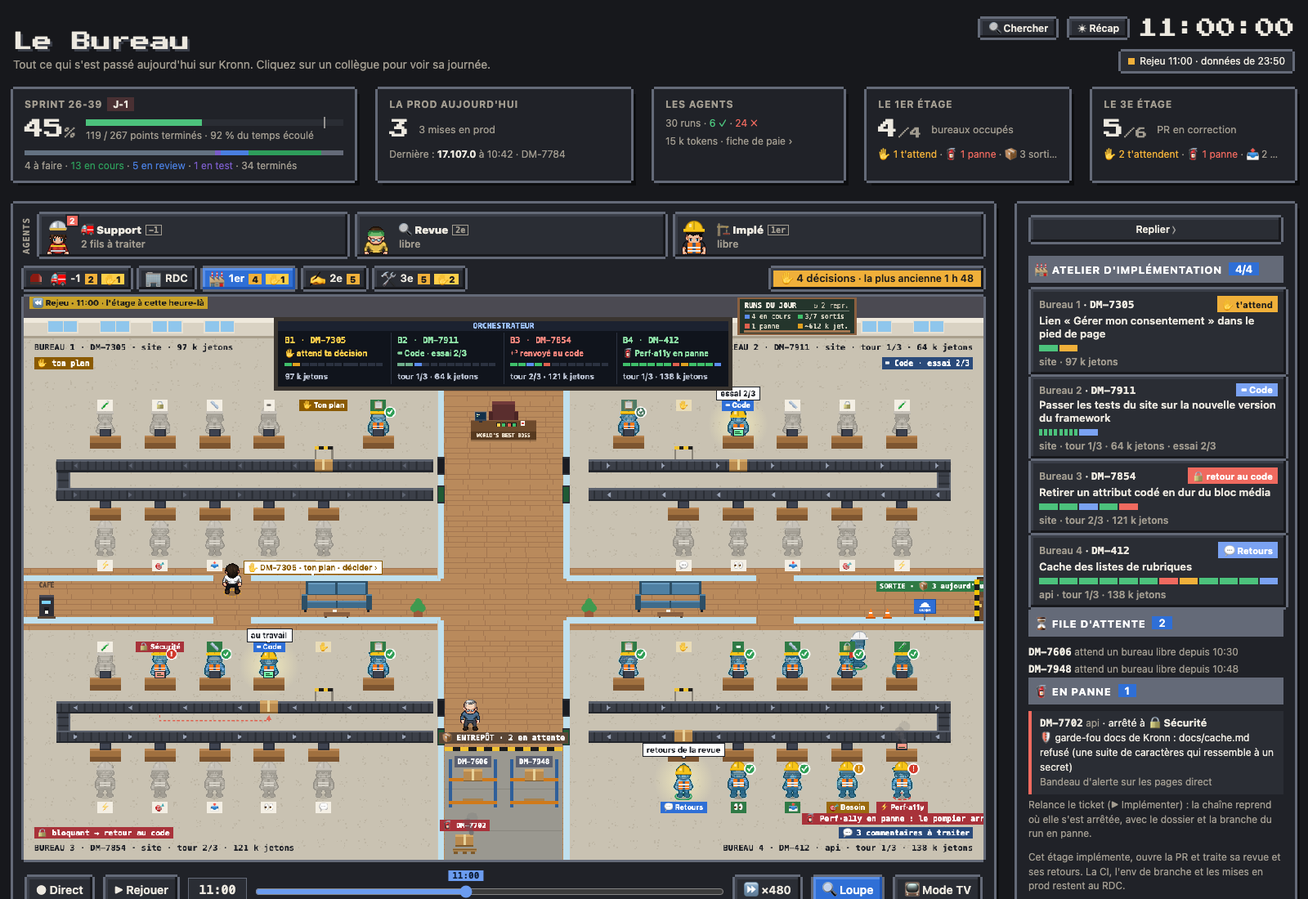
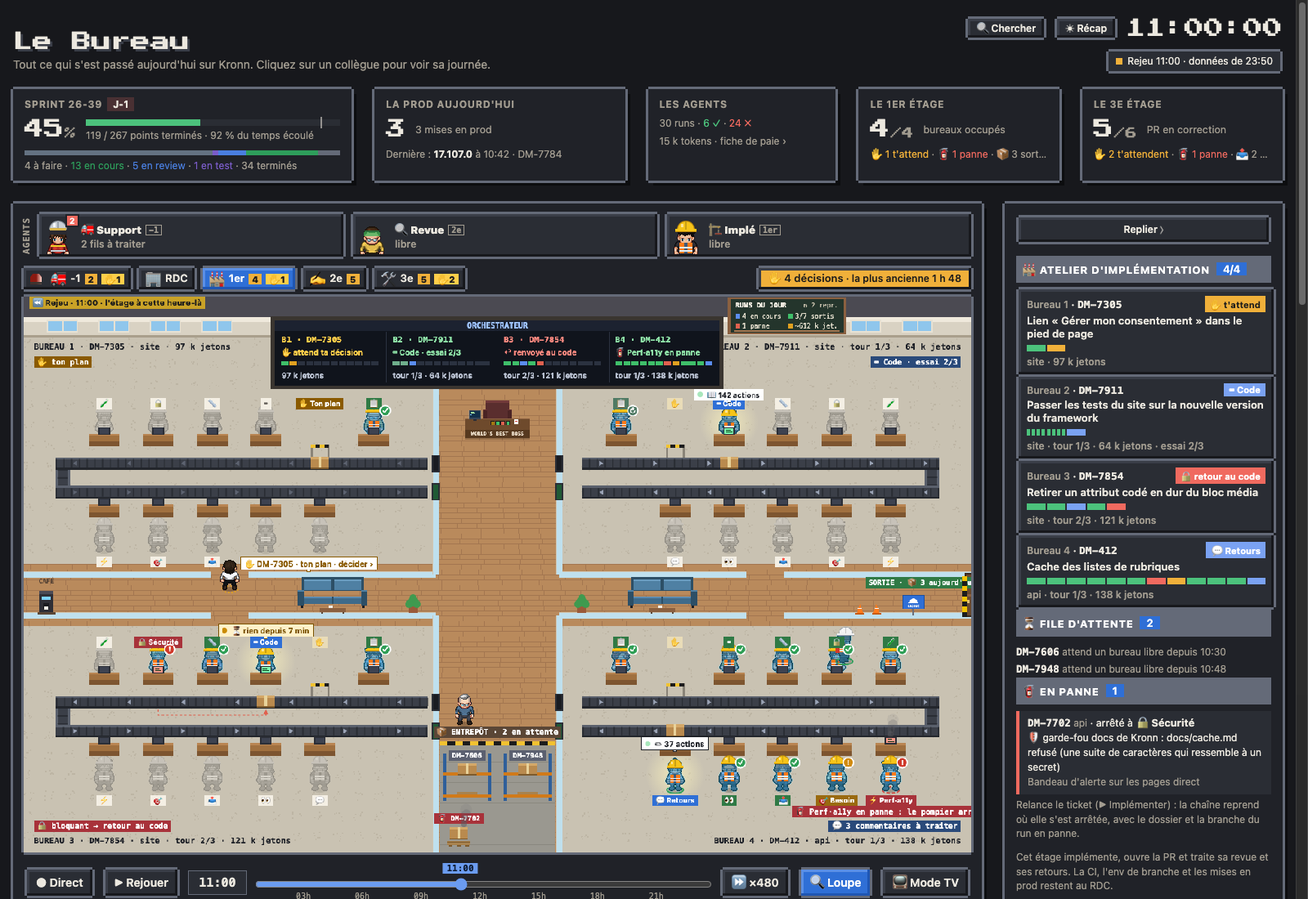
feat(atelier): on voit qu'un bureau travaille, et l'orchestrateur vient au bureau
Le relevé lit last_activity de Kronn (dernière action, nombre d'actions, heure) dans l'étape qui tourne, en
descendant dans le sous-run, et dit l'étape du parent (etape). La bulle de l'agent au travail montre l'action et le
compteur, avec une pastille vivante, et passe au jaune après 5 min sans action. Pendant orchestrateur_plan et
orchestrateur, aucun poste ne travaille : l'orchestrateur vient à la barrière, et l'étiquette, le tableau et la
fiche le disent. Les bulles des bureaux du haut passent juste sous le grand tableau au lieu de disparaître dessous.

diff --git a/page/src/68-atelier.js b/page/src/68-atelier.js
@@ -62,12 +62,12 @@ function atelierDemo(){
     {run:'demo-a1',ticket:'DM-7305',title:'Lien « Gérer mon consentement » dans le pied de page',repo:'dm/site',poste:'gate',gate:'gate_plan',
      states:{...ok(1),gate:'wait'},tour:null,tok:97e3,since:at(9.2),note:'✋ ton plan'},
     {run:'demo-a2',ticket:'DM-7911',title:'Passer les tests du site sur la nouvelle version du framework',repo:'dm/site',poste:'code',
-     states:{cadrage:'rep',gate:'rep',code:'run'},tour:'1/3',tok:64e3,since:at(9.6),lot:'essai 2/3',
+     states:{cadrage:'rep',gate:'rep',code:'run'},tour:'1/3',tok:64e3,since:at(9.6),lot:'essai 2/3',etape:'code',act:{cat:'Read',n:142,at:at(10.998)},
      reprise:{poste:'code',de:'demo-a2-0',panne:'code',cause:'délai dépassé, arrêté par Kronn (2 h 10 pour 2 h 00 permises)',cause_type:'delai'}},
     {run:'demo-a3',ticket:'DM-7854',title:'Retirer un attribut codé en dur du bloc média',repo:'dm/site',poste:'code',back:true,
-     states:{...ok(4),securite:'bloq',code:'run'},tour:'2/3',tok:121e3,since:at(8.4),note:'🔒 bloquant → retour au code'},
+     states:{...ok(4),securite:'bloq',code:'run'},tour:'2/3',tok:121e3,since:at(8.4),note:'🔒 bloquant → retour au code',etape:'code',act:{cat:'Execute',n:96,at:at(10.88)}},
     {run:'demo-a4',ticket:'DM-412',title:'Cache des listes de rubriques',repo:'dm/api',poste:'retours',
-     states:{...ok(6),perf:'err',besoin:'avis',doc:'ok',pr:'ok',revue_pr:'ok',retours:'run'},tour:'1/3',tok:138e3,since:at(7.9),note:'💬 3 commentaires à traiter'}],
+     states:{...ok(6),perf:'err',besoin:'avis',doc:'ok',pr:'ok',revue_pr:'ok',retours:'run'},tour:'1/3',tok:138e3,since:at(7.9),note:'💬 3 commentaires à traiter',etape:'livraison',act:{cat:'Edit',n:37,at:at(10.994)}}],
     queue:[{run:'demo-q1',ticket:'DM-7606',since:at(10.5)},{run:'demo-q2',ticket:'DM-7948',since:at(10.8)}],
     livres:3,jour:{tickets:7,cours:4,sortis:3,pannes:1,reprises:2,tok:612e3},pannes:[{run:'demo-p1',ticket:'DM-7702',title:'Bandeau d\'alerte sur les pages direct',repo:'dm/api',poste:'securite',since:at(8.1),
       cause:'garde-fou docs de Kronn : docs/cache.md refusé (une suite de caractères qui ressemble à un secret)',cause_type:'garde_fou_docs',docs_ok:true}]};
@@ -85,6 +85,16 @@ function atelierRunIds(runs){
 const AT_STEP={prepare:'Préparation',orchestrateur_plan:'Plan de l\'orchestrateur',orchestrateur:'Orchestrateur',livraison:'PR',publication:'Publication',
   controles:'Contrôles',ticket:'Lecture du ticket',dossier:'Dossier',aiguillage:'Aiguillage',compris:'Ce que j\'ai compris',questions:'Questions',mode:'Mode'};
 const atStepName=k=>{const p=AT_POSTES.find(x=>x.k===k);return p?p.i+' '+p.n:AT_STEP[k]||k||'?';};
+// ce que fait l'agent au travail (act du relevé : last_activity de Kronn) ; en direct seulement : le relevé dit ce qu'il
+// fait maintenant, pas à l'heure du rejeu. Sans action depuis AT_STALE, la bulle passe au jaune.
+const AT_ACT={Read:['📖','lit un fichier'],Execute:['⌨','lance une commande'],Edit:['✏','écrit un fichier'],Write:['✏','écrit un fichier'],Search:['🔎','cherche']};
+const AT_STALE=5*60e3;
+function atAct(r){const a=r&&r.act, g=ATELIER&&ATELIER.generated_at;if(!a||!a.at||!g||Math.abs(T-Date.parse(g))>180e3)return null;
+  const age=Math.max(0,T-Date.parse(a.at)), [ico,txt]=AT_ACT[a.cat]||['⚙','travaille'];return {ico,txt,n:a.n||0,age,stale:age>AT_STALE};}
+const atActBubble=a=>a.stale?'⏳ rien depuis '+Math.floor(a.age/60e3)+' min':a.ico+' '+a.n+' action'+(a.n>1?'s':'');
+const atAgo=ms=>ms<60e3?'il y a '+Math.round(ms/1e3)+' s':'il y a '+Math.floor(ms/60e3)+' min';
+// l'orchestrateur, hors des postes : il vient dans le bureau pendant ses étapes (un bureau sans poste en cours paraissait vide)
+const AT_ORCH={orchestrateur_plan:'🧠 l\'orchestrateur écrit le plan',orchestrateur:'🧠 l\'orchestrateur décide : livrer ou renvoyer au code'};
 // les bureaux : en direct, ceux du relevé ; en rejeu, l'étage reconstruit à l'heure du curseur (atRoomsAt)
 const atLive=()=>typeof mode==='undefined'||mode==='live'||(typeof SCENE_DEMO!=='undefined'&&!!SCENE_DEMO); // une scène de la galerie joue sur sa copie
 const atRooms=()=>(atLive()?((ATELIER&&ATELIER.rooms)||[]):atRoomsAt(T)).slice(0,4);
@@ -358,9 +368,15 @@ function atCarton(x,y,label,col,dy){
 }
 function atBadge(x,y,ch,bgc,k){const s=k==null?1:k;if(s<=0)return;ctx.fillStyle=bgc;ctx.beginPath();ctx.arc(x,y,8*s,0,7);ctx.fill();ctx.strokeStyle='#fff';ctx.lineWidth=2;ctx.stroke();
   if(s>.6)atTxt(ch,x,y+4,'#fff','bold 11px system-ui,sans-serif');}
-function atBubble(x,y,s,col){ctx.font='bold 12px system-ui,sans-serif';const w=ctx.measureText(s).width+12;
-  R(ctx,x-w/2-1,y-19,w+2,21,col||'#1c1f26');R(ctx,x-w/2,y-18,w,19,'#ffffff');R(ctx,x-3,y+1,6,3,col||'#1c1f26');R(ctx,x-2,y+1,4,2,'#ffffff');
-  atTxt(s,x,y-4,col||'#1c1f26','bold 12px system-ui,sans-serif');}
+const AT_BOARD={x:12.2*AT_TS,y:1.15*AT_TS,w:21.6*AT_TS,h:3.15*AT_TS};
+// dot : pastille d'activité (live : action de moins de 30 s, clignote ; calm ; stale : jaune). Bureaux du haut : une bulle
+// sous le grand tableau descend juste sous son cadre, plus serrée, entre le tableau et les étiquettes des postes
+function atBubble(x,y,s,col,dot){const B=AT_BOARD, by1=B.y+B.h+6, tight=y-19<by1&&x>B.x-90&&x<B.x+B.w+90, h=tight?17:19, f=tight?'bold 11px system-ui,sans-serif':'bold 12px system-ui,sans-serif';
+  if(tight)y=by1+h;
+  ctx.font=f;const d=dot?14:0, w=ctx.measureText(s).width+12+d, st=dot==='stale', ink=st?'#7a5200':col||'#1c1f26', bg=st?'#fff1c9':'#ffffff';
+  R(ctx,x-w/2-1,y-h-1,w+2,h+2,ink);R(ctx,x-w/2,y-h,w,h,bg);R(ctx,x-3,y+1,6,3,ink);R(ctx,x-2,y+1,4,2,bg);
+  if(dot){const on=dot!=='live'||REDUCED_MOTION||Math.floor(performance.now()/500)%2===0;ctx.fillStyle=st?'#c98a00':on?'#2fbf5a':'#a8e6bb';ctx.beginPath();ctx.arc(x-w/2+9,y-h/2,4,0,7);ctx.fill();}
+  atTxt(s,x+d/2,y-h/2+5,ink,f);}
 function atDesk(x,y,on,col){R(ctx,x-24,y,48,12,'#a0703f');R(ctx,x-24,y,48,3,'#b98552');R(ctx,x-24,y+12,48,8,'#7d5530');
   R(ctx,x-9,y-10,18,12,'#2b2e36');R(ctx,x-7,y-8,14,8,on?(col||'#7dffb0'):'#3d4250');if(on){R(ctx,x-5,y-6,7,1,'#0b3a1a');R(ctx,x-5,y-3,10,1,'#0b3a1a');}}
 function atCoffee(x,y){R(ctx,x-11,y-32,22,32,'#2f2f36');R(ctx,x-11,y-32,22,4,'#4a4a55');R(ctx,x-7,y-24,14,6,'#7dd3ff');R(ctx,x-4,y-13,8,8,'#1a1a1f');R(ctx,x-3,y-8,6,5,'#f2efe6');R(ctx,x-14,y,28,4,'#5a4636');}
@@ -431,7 +447,7 @@ const atHit=(kind,x,y,w,h,ref)=>AT_HITS.push({kind,x,y,w,h,...ref});
 function atRoom(r,i,now,dt){
   const g=AT_G[i], T=AT_TS, H=g.H, leave=AT_MEM.leaving[i], live=r&&!r.gate, al=g.L?'left':'right', hx=g.L?(g.x0+.5)*T:(g.x1-.5)*T;
   if(r){atTxt('BUREAU '+(i+1)+' · '+r.ticket+' · '+String(r.repo||'').split('/').pop()+(r.tour?' · tour '+r.tour:'')+' · '+Math.round((r.tok||0)/1e3)+' k jetons',hx,g.head,'#1c1f26','bold 13px ui-monospace,Menlo,monospace',al);
-    const nt=r.note||(r.lot?'⌨ Code · '+r.lot:'');
+    const nt=r.note||(r.lot?'⌨ Code · '+r.lot:'')||(!r.poste&&AT_ORCH[r.etape])||'';
     if(nt){ctx.font='bold 12px ui-monospace,Menlo,monospace';const w=ctx.measureText(nt).width+10;atPill(nt,g.L?hx+w/2:hx-w/2,g.noteY,r.gate?'#8a5a00':r.back?'#a8323a':'#2a4a7a');}}
   else atTxt('BUREAU '+(i+1)+' · '+(leave?leave.ticket+' · sorti':'libre'),hx,g.head,'#8a8478','bold 13px ui-monospace,Menlo,monospace',al);
   const x_=g.L?g.turnX:g.ex, w_=Math.abs(g.ex-g.turnX)+.7*T;
@@ -456,7 +472,8 @@ function atRoom(r,i,now,dt){
       const gl=ctx.createRadialGradient(sp.x,feet-24,4,sp.x,feet-24,46);gl.addColorStop(0,'rgba(255,246,190,.65)');gl.addColorStop(1,'rgba(255,246,190,0)');ctx.fillStyle=gl;ctx.fillRect(sp.x-48,feet-72,96,96);
       a._st={st:'work'};a.pose='type';people.push([a,()=>atDesk(sp.x,deskY,true),top]);
       const back=AT_MEM.backAt[r.run], sigh=p.k==='code'&&back&&now-back<8e3;
-      late.push(()=>atBubble(sp.x,feet-62,sigh?'encore ?':r.lot||(p.k==='retours'?'retours de la revue':'au travail')));
+      const act=r.poste===p.k&&atAct(r);
+      late.push(()=>atBubble(sp.x,feet-62,sigh?'encore ?':act?atActBubble(act):r.lot||(p.k==='retours'?'retours de la revue':'au travail'),null,!sigh&&act?act.stale?'stale':act.age<30e3?'live':'calm':null));
     }else if(s==='bloq'||s==='err'){
       a._st={st:'error'};a.pose=s==='bloq'&&AT_MEM.backAt[r.run]&&now-AT_MEM.backAt[r.run]<8e3?'hands':'stand';people.push([a,()=>atDesk(sp.x,deskY,true,'#ff9a8a'),top]);
       late.push(()=>atBadge(sp.x+18,feet-42,'!','#d0392b'));
@@ -469,6 +486,15 @@ function atRoom(r,i,now,dt){
     else if(s==='idle'){a._st={st:'idle'};a.pose='stand';sleepers.push([a,sp.x,feet,deskY,top]);}
     else {a._st={st:'idle'};a.pose='stand';ghosts.push([a,sp.x,deskY]);}
   });
+  if(r&&!r.gate&&!r.poste&&AT_ORCH[r.etape]){ // à côté de la barrière, du côté du Plan, son bloc-notes à la main
+    const sp=atSpot(g,'gate'), pl=atSpot(g,'cadrage'), top=sp.row===1, feet=top?g.feet1:g.feet2, x=sp.x+Math.sign(pl.x-sp.x||1)*30;
+    const o=atWorker(i*20+19,x,feet,'down',false,'Orchestrateur','securite');
+    if(o){o._st={st:'work'};o.pose='hands';
+      const gl=ctx.createRadialGradient(x,feet-24,4,x,feet-24,46);gl.addColorStop(0,'rgba(255,246,190,.65)');gl.addColorStop(1,'rgba(255,246,190,0)');ctx.fillStyle=gl;ctx.fillRect(x-48,feet-72,96,96);
+      people.push([o,()=>{},top]);
+      late.push(()=>{R(ctx,x+12,feet-34,14,18,'#8a6a3a');R(ctx,x+13,feet-32,12,15,'#fbfbf6');
+        const n=REDUCED_MOTION?3:1+Math.floor(now/700)%4;for(let k=0;k<n;k++)R(ctx,x+15,feet-29+k*3,8,1,'#5a5a5a');
+        const act=atAct(r);atBubble(x,feet-62,act?atActBubble(act):r.etape==='orchestrateur'?'je décide…':'ton plan…',null,act?act.stale?'stale':act.age<30e3?'live':'calm':null);});}}
   if(ghosts.length){const gg=atLayer();ghosts.forEach(([a])=>atDrawInto(gg,a,now));ctx.save();ctx.globalAlpha=.38;ctx.filter='grayscale(1)';ctx.drawImage(AT_OFF,0,0);ctx.restore();ghosts.forEach(([,x,y])=>atDesk(x,y,false));}
   people.forEach(([c,d,top])=>{if(top){drawChar(c,now);d();}else{d();drawChar(c,now);}});
   sleepers.forEach(([a,x,f,y,top])=>{if(top){drawChar(a,now);atDesk(x,y,false);}else{atDesk(x,y,false);drawChar(a,now);}});
@@ -504,7 +530,7 @@ function atExtinguisher(r,i,k,x,feet,now,dt,people){
 }
 // ---------- couloir central : grand tableau, boss, entrepôt ----------
 function atBoard(slots){
-  const T=AT_TS, bx=12.2*T, by=1.15*T, bw=21.6*T, bh=3.15*T, cw=bw/4;
+  const bx=AT_BOARD.x, by=AT_BOARD.y, bw=AT_BOARD.w, bh=AT_BOARD.h, cw=bw/4;
   R(ctx,bx-6,by-6,bw+12,bh+12,'#3a3530');R(ctx,bx,by,bw,bh,'#10141c');R(ctx,bx,by,bw,16,'#1c2230');
   atTxt('ORCHESTRATEUR',bx+bw/2,by+12,'#9fc4ff','bold 12px ui-monospace,Menlo,monospace');
   if(themeIs('noel'))for(let k=0;k<26;k++){ctx.fillStyle=['#ff4a4a','#ffd84a','#4aff8a','#4ac8ff'][(k+Math.floor(performance.now()/500))%4];ctx.beginPath();ctx.arc(bx+8+k*(bw-16)/25,by-4,3,0,7);ctx.fill();}
@@ -516,7 +542,7 @@ function atBoard(slots){
     // le titre du ticket est dans le panneau de droite : ici le bureau, l'état, l'avancée, le tour et les jetons, en grand
     const p=AT_POSTES.find(q=>q.k===r.poste);
     const pe=AT_POSTES.find(q=>(r.states||{})[q.k]==='err');
-    atTxt(r.gate==='gate_escalade'?'🚨 demande un humain':r.gate?'✋ attend ta décision':r.back?'↩ renvoyé au code':pe?'🧯 '+pe.n+' en panne':(p?p.i+' '+p.n+(r.lot?' · '+r.lot:''):''),x+10,by+54,col,'bold 12px system-ui,sans-serif','left');
+    atTxt(r.gate==='gate_escalade'?'🚨 demande un humain':r.gate?'✋ attend ta décision':r.back?'↩ renvoyé au code':pe?'🧯 '+pe.n+' en panne':p?p.i+' '+p.n+(r.lot?' · '+r.lot:''):AT_ORCH[r.etape]?'🧠 '+AT_STEP[r.etape]:'',x+10,by+54,col,'bold 12px system-ui,sans-serif','left');
     const sw=(cw-20)/AT_POSTES.length;AT_POSTES.forEach((q,j)=>{const s=(r.states||{})[q.k];R(ctx,x+10+j*sw,by+64,sw-2,6,(AT_ST[s]||['#2b3240'])[0]);});
     atTxt((r.tour?'tour '+r.tour+' · ':'')+Math.round((r.tok||0)/1e3)+' k jetons',x+10,by+90,'#b8c0d0','bold 12px system-ui,sans-serif','left');
     atHit('room',x,by,cw,bh,{i:k});
@@ -959,6 +985,7 @@ function atelierFicheHtml(r,i){
   return `<button class="at-back">‹ L'atelier</button><h2 class="at-h">🎫 ${esc(r.ticket||'…')} <span class="cnt">bureau ${i+1}</span></h2>
     <div class="at-title big">${esc(r.title||'')}</div>
     <div class="mut">${esc(r.repo||'')}${r.tour?' · tour <b>'+esc(r.tour)+'</b>':''} · ${Math.round((r.tok||0)/1e3)} k jetons${r.since?' · depuis '+esc(hm(ms(r.since))):''}</div>${atBar(r)}
+    ${(()=>{const a=atAct(r), st=r.poste?atStepName(r.poste):AT_ORCH[r.etape]?'🧠 '+AT_STEP[r.etape]:'';return !r.gate&&(a||st)?`<div class="at-box run">En ce moment : <b>${esc(st||'…')}</b>${a?(a.stale?' · rien depuis '+Math.floor(a.age/60e3)+' min':' · '+esc(a.ico+' '+a.txt)+' · '+a.n+' actions, la dernière '+atAgo(a.age)):''}</div>`:'';})()}
     ${r.gate?`<div class="at-gate"></div>${r.url?`<a class="at-link" href="${esc(r.url)}" target="_blank" rel="noopener">↗ Lire en entier dans Kronn</a>`:''}`:''}
     ${r.reprise?`<div class="at-box rep">↻ Repris ${esc(r.reprise.poste==='controles'?'aux contrôles':r.reprise.poste==='livraison'?'à la PR':'au '+atStepName(r.reprise.poste))} après : <b>${esc(atStepName(r.reprise.panne))}</b> en panne${r.reprise.cause?' ('+esc(atCauseTxt(r.reprise))+')':''}.${r.reprise.url?` <a href="${esc(r.reprise.url)}" target="_blank" rel="noopener">↗ le run d'avant</a>`:''}</div>`:''}
     <table class="at-t">${AT_POSTES.map(p=>{const s=(r.states||{})[p.k];return `<tr${r.poste===p.k?' class="cur"':''}><td>${p.i} ${esc(p.n)}</td><td>${s?`<span class="dot" style="background:${AT_ST[s][0]}"></span>${AT_ST[s][1]}`:'<span class="mut">à venir</span>'}</td></tr>`;}).join('')}</table>`+

diff --git a/tests/atelier.test.js b/tests/atelier.test.js
@@ -565,3 +565,19 @@ test('« Le soir au 1er » : comme aux autres étages, la scène passe à 22 h 3
   p.run('demoEnd();');
   assert.equal(J2('T === __T'), true);
 });
+
+test("ce que fait l'agent : sa bulle dit sa dernière action et le compteur, jaune sans action depuis 5 min ; l'orchestrateur vient au bureau", () => {
+  const p = load(), Jp = c => JSON.parse(p.run('JSON.stringify(' + c + ')'));
+  p.run(`T = DAY0 + 11 * 36e5; ATELIER = {generated_at: new Date(T).toISOString(), queue: [], pannes: [], rooms: [
+      {run: 'a', ticket: 'AB-1', repo: 'dm/site', poste: null, states: {cadrage: 'ok'}, tok: 1, etape: 'orchestrateur_plan', act: {cat: 'Execute', n: 18, at: new Date(T - 12e3).toISOString()}},
+      {run: 'b', ticket: 'AB-2', repo: 'dm/site', poste: 'code', states: {code: 'run'}, tok: 1, etape: 'code', act: {cat: 'Read', n: 96, at: new Date(T - 7 * 60e3).toISOString()}}]};
+    var __bb = [], __ab = atBubble; atBubble = (x, y, s, col, dot) => { __bb.push([s, dot || null]); return __ab(x, y, s, col, dot); };
+    AT_MEM.fresh = true; setFloor(1); renderAtelier(1000);`);
+  const bb = Jp('__bb');
+  assert.ok(bb.some(([s, d]) => s === '⌨ 18 actions' && d === 'live'), 'l\'orchestrateur : sa dernière action a 12 s');
+  assert.ok(bb.some(([s, d]) => s === '⏳ rien depuis 7 min' && d === 'stale'));
+  assert.match(p.run('atelierFicheHtml(ATELIER.rooms[0], 0)'), /En ce moment : <b>🧠 Plan de l&#39;orchestrateur<\/b> · ⌨ lance une commande · 18 actions, la dernière il y a 12 s/);
+  // en rejeu (le relevé est d'une autre heure), la bulle redevient « au travail »
+  p.run('T += 3600e3; __bb = []; renderAtelier(1100); atBubble = __ab;');
+  assert.ok(!Jp('__bb').some(([s]) => /actions|rien depuis/.test(s)));
+});

diff --git a/workflows/atelier_snapshot.py b/workflows/atelier_snapshot.py
@@ -2,7 +2,7 @@
 lus dans l'API Kronn, 0 token ; stdout JSON du dataset atelier (cron live).
 
   {generated_at, rooms: [{run, ticket, title, repo, status, poste, gate, states: {poste: ok|run|bloq|avis|skip|wait|err|rep},
-                          tour, tok, since, lot, note, url, reprise?: {poste, de, panne, cause, cause_type, url}}],
+                          tour, tok, since, lot, note, url, etape?, act?: {cat, n, at}, reprise?: {poste, de, panne, cause, cause_type, url}}],
    queue: [{run, since}], pannes: [{run, ticket, repo, title, poste, since, url, cause, cause_type, docs_ok}], postes: [clé],
    events: [{t, k: arrive|poste|gate|back|panne|sort, run, ticket, repo, title, gate?, poste?, cause?, cause_type?}], livres,
    jour: {tickets, cours, sortis, pannes, reprises, tok}}
@@ -19,6 +19,8 @@ plus à l'étape code), une étape en panne, la PR ouverte (livraison réussie),
 La cause d'une panne : l'étape en échec du sous-run le plus profond (la sortie d'une étape SubWorkflow donne child_run_id et
 child_workflow_id), en une ligne et classée (garde_fou_docs, delai, agent, script, autre) ; le lien mène à ce run-là. Un run
 fini ne change plus : sa cause est gardée dans ~/.cache/pixel-bureau/atelier_causes.json (le cron tourne chaque minute).
+L'étape du parent qui tourne (etape : orchestrateur_plan… quand aucun poste n'est en cours) et ce que fait l'agent (act :
+last_activity de Kronn, cherché dans le sous-run le plus profond), pour montrer qu'un bureau travaille.
 Un run repris (prepare saute au Code, aux contrôles ou à la PR) : les postes d'avant la reprise sont « rep » (faits par le run
 d'avant), et reprise dit après quelle panne.
 Le tableau « Runs du jour » (jour) compte par ticket et dépôt les runs de la chaîne depuis minuit (fuseau du bureau, pages
@@ -84,6 +86,28 @@ def children(wf, run_id, cache):
     if not kids:
         return None
     return get(f"/workflows/{wf}/runs/{kids[0]['id']}")
+
+
+# étape SubWorkflow d'un run de la chaîne -> modèle de son sous-workflow (pour descendre jusqu'à l'agent qui travaille)
+SUB = {"cadrage": "impl_cadrage", "code": "impl_code", "controles": "impl_controles", "livraison": "impl_livraison",
+       "publication": "impl_publication", "tests": "impl_tests", "revue": "impl_revue_pr", "retours": "impl_retours"}
+
+
+def activite(run, models, cache, depth=0):
+    """Ce que fait l'agent en ce moment : last_activity de l'étape qui tourne (Kronn : catégorie de la dernière action,
+    nombre d'actions, heure), cherchée dans le sous-run quand l'étape est un sous-workflow. Sans agent au travail : None."""
+    s = next((x for x in reversed(run.get("step_results") or []) if x.get("status") == "Running"), None)
+    if not s:
+        return None
+    a = s.get("last_activity")
+    if isinstance(a, dict) and a.get("at"):
+        return {"cat": a.get("category"), "n": a.get("calls"), "at": a.get("at")}
+    k = SUB.get(s.get("step_name"))
+    if k and depth < 3:
+        c = children(models.get(k), run["id"], cache)
+        if c:
+            return activite(c, models, cache, depth + 1)
+    return None
 
 
 def run_url(wf, rid):
@@ -240,11 +264,14 @@ def room(run, models, cache):
     reprise = str((steps.get("prepare") or {}).get("condition_result") or "").partition("Goto:")[2]
     for k in REPRIS.get(reprise, ()):  # repris : faits par le run d'avant (pas « attend son tour »)
         states.setdefault(k, "rep")
+    etape = next((x.get("step_name") for x in reversed(run.get("step_results") or []) if x.get("status") == "Running"), None)
+    act = activite(run, models, cache) if run.get("status") == "Running" else None
     return {"run": run["id"], "ticket": m.group(1) if m else None, "repo": m.group(2) if m else None,
             "title": title, "status": run.get("status"), "poste": poste,
             "gate": gate, "states": {k: v for k, v in states.items() if v}, "tour": tour, "tok": run.get("tokens_used") or 0,
             "since": run.get("started_at"), "lot": lot, "note": note, "back": back,
             "url": run_url(run.get("workflow_id") or (CFG.get("models") or {}).get("impl_chain"), run["id"]),
+            **({"etape": etape} if etape else {}), **({"act": act} if act else {}),
             **({"repris_a": reprise} if reprise in REPRIS else {})}
 
 

diff --git a/tests/test_chaine.py b/tests/test_chaine.py
@@ -1303,6 +1303,28 @@ class AtelierSnapshotTest(unittest.TestCase):
         snap = self.snap(api, {"impl_chain": "c"})
         self.assertEqual(snap["jour"], {"tickets": 3, "cours": 1, "sortis": 1, "pannes": 1, "reprises": 1, "tok": 4000})
 
+    def test_room_says_which_step_runs_and_what_its_agent_does(self):
+        """Un bureau sans poste en cours (l'orchestrateur écrit le plan) dit l'étape qui tourne ; act = last_activity de
+        l'agent au travail, cherché dans le sous-run quand l'étape est un sous-workflow (le Code)."""
+        prep = {"step_name": "prepare", "status": "Success", "output": "AB-7 sur dm/site : branche kronn/AB-7"}
+        act = {"category": "Execute", "at": "2026-10-30T11:59:40Z", "calls": 18}
+        plan = {"id": "p1", "workflow_id": "c", "status": "Running", "started_at": "2026-10-30T11:50:00Z", "step_results": [
+            prep, {"step_name": "cadrage", "status": "Success"},
+            {"step_name": "orchestrateur_plan", "status": "Running", "step_kind": "Agent", "last_activity": act}]}
+        code = {"id": "p2", "workflow_id": "c", "status": "Running", "started_at": "2026-10-30T11:00:00Z", "step_results": [
+            prep, {"step_name": "cadrage", "status": "Success"}, {"step_name": "gate_plan", "status": "Success"},
+            {"step_name": "code", "status": "Running", "step_kind": "SubWorkflow"}]}
+        kid = {"id": "k2", "status": "Running", "parent_run_id": "p2", "step_results": [
+            {"step_name": "affecter", "status": "Success"},
+            {"step_name": "code", "status": "Running", "last_activity": {"category": "Read", "at": "2026-10-30T11:58:00Z", "calls": 142}}]}
+        api = {"/workflows/c/runs?limit=40": [{k: v for k, v in r.items() if k != "step_results"} for r in (plan, code)],
+               "/workflows/c/runs/p1": plan, "/workflows/c/runs/p2": code,
+               "/workflows/code/runs?limit=60": [{"id": "k2", "parent_run_id": "p2"}], "/workflows/code/runs/k2": kid}
+        rooms = {r["run"]: r for r in self.snap(api, {"impl_chain": "c", "impl_code": "code"})["rooms"]}
+        self.assertEqual((rooms["p1"]["poste"], rooms["p1"]["etape"], rooms["p1"]["act"]),
+                         (None, "orchestrateur_plan", {"cat": "Execute", "n": 18, "at": "2026-10-30T11:59:40Z"}))
+        self.assertEqual((rooms["p2"]["poste"], rooms["p2"]["etape"], rooms["p2"]["act"]["n"]), ("code", "code", 142))
+
     def test_resumed_run_shows_earlier_postes_and_why(self):
         """Run repris (prepare saute aux contrôles) : Plan, gate et Code « rep » (pas « attend son tour »), après quelle panne ;
         le saut de prepare n'est pas une panne dans le fil."""

diff --git a/tools/shots.py b/tools/shots.py
@@ -286,6 +286,9 @@ SHOTS = {
     # une panne : sa cause, le conseil, le lien vers l'étape en échec ; un bureau repris (postes ↻ repris)
     "atelier-panne": (1600, 1100, AT(11) + "setFloor(1);AT_PICK={kind:'panne',run:'demo-p1'};renderSide(true);", None),
     "atelier-reprise": (1600, 1100, AT(11) + "setFloor(1);ATSEL='demo-a2';renderSide(true);", None),
+    # l'orchestrateur écrit le plan : il vient au bureau 1, sa bulle dit ce qu'il fait (act du relevé)
+    "atelier-orchestrateur": (1600, 1100, AT(11) + "Object.assign(ATELIER.rooms[0],{poste:null,gate:null,note:null,states:{cadrage:'ok'},tok:24.8e3,"
+                              "etape:'orchestrateur_plan',act:{cat:'Execute',n:18,at:new Date(T-12e3).toISOString()}});setFloor(1);", None),
     "atelier-calme": (1600, 1100, AT(11) + "ATELIER={...ATELIER,rooms:ATELIER.rooms.slice(0,2),queue:[],pannes:[]};setFloor(1);", None),
     # -1, la caserne Support : deux interventions de la démo (une au poste Cause, une réponse à valider, le capitaine à
     # la vanne) et une baie libre ; puis la caserne au calme, le soir : la garde dort sur les lits de camp

diff --git a/guide/fonctionnalites/23-atelier.md b/guide/fonctionnalites/23-atelier.md
@@ -15,13 +15,17 @@ Les workflows de l'étage (la chaîne et ses postes, modèles `impl*`) ne passen
 - **Quatre bureaux sur toute la largeur**, autour d'un couloir central et d'un couloir horizontal ; chaque bureau a sa porte au milieu, côté couloir horizontal. Les titres : bureau 1 en haut à gauche, 2 en haut à droite, 3 en bas à gauche, 4 en bas à droite. Un ticket garde son bureau jusqu'à sa sortie.
 - **Le tapis roulant** : le carton du ticket entre par une trappe côté couloir central, avance de poste en poste (rangée du haut vers le mur, virage, rangée du bas) et ressort par la trappe de sortie, toujours côté couloir central (les bureaux 1 et 3 sont en miroir). Onze postes y ont leur bureau : six en haut (📋 Plan, ✋ Ton plan, ⌨ Code, 📏 Règles, 🔒 Sécurité, 🧪 Tests), cinq en bas à partir du virage (⚡ Perf·a11y, 🎯 Besoin, 📤 PR, 👀 Revue PR, 💬 Retours) ; 📚 Doc n'a pas de bureau, il est dans la barre des postes et la fiche. Quand le ticket change de poste, le carton glisse ; après un bloquant, il recule jusqu'au Code, sous une flèche rouge en pointillé. La barrière jaune et noire est « Ton plan ».
 - **Un agent par poste**, derrière son bureau, sous l'icône de son poste ; le nom s'y ajoute quand il travaille, bloque, est en panne ou attend ta décision (au survol, sinon). L'étage est un chantier : les agents, des hologrammes bleus, portent le casque jaune et le gilet orange à bandes (debout, le gilet est à la même hauteur que sur l'agent du chantier au RDC, sous le menton) ; à la sortie, une bande jaune et noire, deux plots et le panneau « casque obligatoire ».
-  - **au travail** : hologramme vif, il tape, son écran est allumé, une lumière l'éclaire et une bulle dit ce qu'il fait ;
+  - **au travail** : hologramme vif, il tape, son écran est allumé, une lumière l'éclaire et une bulle dit ce qu'il fait : sa dernière action et le nombre d'actions depuis le début de l'étape (📖 lit un fichier, ⌨ lance une commande, ✏ écrit, 🔎 cherche), avec une pastille verte qui clignote quand l'action a moins de 30 s. Sans action depuis 5 minutes, la bulle passe au jaune : « ⏳ rien depuis 7 min ». En rejeu, elle redit « au travail » (le relevé ne dit que ce que fait l'agent maintenant). Le compteur avance à chaque relevé, toutes les minutes ;
   - **a travaillé** : une pastille ✓ (ou ! pour un avis) apparaît avec un petit saut, et l'agent s'étire ;
   - **attend son tour** : silhouette grise derrière un écran éteint ;
   - **bloquant** : pastille ! rouge, écran rouge ; **en panne** (le sous-workflow du poste a échoué, par exemple l'API d'un agent indisponible) : fumée et étincelles sur l'écran, une étiquette « 🧯 … en panne : le pompier arrive », et le pompier de l'étage (casque blanc de la sécurité) vient de la porte avec un extincteur tant que la panne dure ; le grand tableau le dit aussi.
+- **L'orchestrateur** (casque blanc, bloc-notes à la main) vient dans le bureau pendant ses étapes, quand aucun poste ne travaille : quand il écrit le plan, après le 📋 Plan, et quand il décide, après les contrôles, de livrer ou de renvoyer au code. Il se tient à côté de la barrière, sous une lumière, sa bulle dit ce qu'il fait, et l'étiquette du bureau le dit (« 🧠 l'orchestrateur écrit le plan ») ; le grand tableau aussi. Sans lui, le bureau paraissait vide pendant plusieurs minutes.
+
+  ![L'orchestrateur écrit le plan au bureau 1 ; les bulles disent ce que font les agents](../img/atelier-orchestrateur.png)
+
 - **Un bureau libre** s'éteint doucement. Seul le bureau 1 garde son équipe : elle somnole à son poste et, de temps en temps, l'un d'eux va au café, sur un canapé ou dans le couloir, puis revient (2 promeneurs au plus). Les bureaux 2 à 4 libres sont vides. Quand un ticket arrive, les lumières se rallument, les promeneurs rentrent et, dans un bureau vide, l'équipe monte par la porte de sortie, l'un après l'autre, pendant que Bernard apporte le carton ; quand Bernard emporte le carton du ticket sorti, elle redescend par la même porte.
 - **Le tableau noir « Runs du jour »**, au mur du haut à droite du grand tableau (à la place de deux fenêtres) : depuis minuit, les tickets en cours, les tickets sortis sur les tickets du jour, les runs en panne et les jetons ; les reprises sont à part, en haut à droite (« ↻ 8 reprises »), car on compte par ticket, pas par run. Il est purement indicatif, comme ceux des autres étages : rien au clic, l'historique est dans la page « Chaîne · bilan ». En rejeu, il garde les chiffres du dernier relevé.
-- **Le grand tableau de l'orchestrateur**, en haut : une colonne par bureau, avec le ticket, le poste en cours ou la décision, la barre des postes, le tour et les jetons (le titre du ticket est dans le panneau).
+- **Le grand tableau de l'orchestrateur**, en haut : une colonne par bureau, avec le ticket, le poste en cours (ou l'étape de l'orchestrateur) ou la décision, la barre des postes, le tour et les jetons (le titre du ticket est dans le panneau).
 - **Le boss**, dans son fauteuil rouge derrière son bureau à quatre boutons ; un pack d'équipe peut lui donner un dessin pour cet étage (`atelier_sprite` dans le roster, par exemple en constructeur, casque et gilet) (un par bureau, jaune quand ce bureau t'attend). Quand une gate t'attend, il se lève et va à la porte du bureau, avec au-dessus de lui l'étiquette « ✋ DM-7305 · ton plan · décider › », puis revient s'asseoir. Une escalade (« la chaîne demande un humain ») allume un gyrophare au-dessus de la porte. À la porte, un clic sur lui ou sur son étiquette ouvre la fiche du bureau, sa décision en haut ; à son fauteuil, un clic ouvre sa fiche, la même qu'au RDC (ses validations, ses todos, ses tickets), dans le panneau de droite ; elle reste ouverte quand tu changes d'étage.
 - **L'entrepôt**, en bas du couloir central : les tickets en attente sur les rayonnages, les tickets en panne sur des palettes (🧯, à relancer).
 - **Les livraisons** : un ticket qui arrive apparaît au fond de l'entrepôt (« ✨ DM-7305 arrive du RDC ») ; **Bernard** (le manutentionnaire : âgé, un peu dégarni, lunettes, blouse bleue) va le chercher et l'apporte à la trappe d'entrée avec son transpalette ; un ticket qui sort (PR ouverte) attend à la trappe de sortie, Bernard vient le chercher et repart par la porte de sortie. Il n'y a qu'un Bernard : les livraisons passent l'une après l'autre, et entre deux il attend à l'entrepôt, à droite, où un compteur dit combien de tickets sont sortis aujourd'hui. Le café est au bout gauche du couloir ; deux canapés (avec leur table basse) sont entre chaque porte et le couloir central, jamais devant une porte.
@@ -44,7 +48,7 @@ Les workflows de l'étage (la chaîne et ses postes, modèles `impl*`) ne passen
 
 ## Le panneau
 
-Sur le 1er étage, le panneau liste les bureaux (ticket, poste en cours, barre des postes, tour, jetons), la file et les pannes. Un clic sur un agent dit ce qu'il fait et où est sa place (le chemin jusqu'à son bureau est tracé quand il se promène) ; comme au RDC, le plan s'assombrit autour de lui (et du boss quand sa fiche est ouverte), et Échap ou un clic ailleurs le rend ; un clic sur un carton de l'entrepôt dit depuis quand il attend, ou où il est tombé en panne. Un clic sur un bureau, son carton ou sa colonne du tableau, dans le panneau ou sur le plan, ouvre sa fiche : le verdict de chaque poste (dont 📚 Doc, la doc du dépôt à jour, qui n'a pas de bureau sur le tapis : il est dans la barre des postes et la fiche), la note, le lien vers le run dans Kronn et, quand une gate t'attend (« ce que j'ai compris » après le cadrage, ton plan, escalade, relecture de la PR), la carte de décision habituelle, tout en haut, sous le titre, avec ce qu'il faut valider et « ↗ Lire en entier dans Kronn ». La gate du cadrage s'ouvre à chaque ticket : tu corriges la compréhension de la chaîne autant de fois que tu veux avant qu'elle planifie.
+Sur le 1er étage, le panneau liste les bureaux (ticket, poste en cours, barre des postes, tour, jetons), la file et les pannes. Un clic sur un agent dit ce qu'il fait et où est sa place (le chemin jusqu'à son bureau est tracé quand il se promène) ; comme au RDC, le plan s'assombrit autour de lui (et du boss quand sa fiche est ouverte), et Échap ou un clic ailleurs le rend ; un clic sur un carton de l'entrepôt dit depuis quand il attend, ou où il est tombé en panne. Un clic sur un bureau, son carton ou sa colonne du tableau, dans le panneau ou sur le plan, ouvre sa fiche : « En ce moment » (l'étape qui tourne, la dernière action de l'agent, le nombre d'actions et depuis quand), le verdict de chaque poste (dont 📚 Doc, la doc du dépôt à jour, qui n'a pas de bureau sur le tapis : il est dans la barre des postes et la fiche), la note, le lien vers le run dans Kronn et, quand une gate t'attend (« ce que j'ai compris » après le cadrage, ton plan, escalade, relecture de la PR), la carte de décision habituelle, tout en haut, sous le titre, avec ce qu'il faut valider et « ↗ Lire en entier dans Kronn ». La gate du cadrage s'ouvre à chaque ticket : tu corriges la compréhension de la chaîne autant de fois que tu veux avant qu'elle planifie.
 
 La fiche du boss à l'étage : « ← L'atelier » (ou Échap) revient aux bureaux. Ses validations se décident sur place ; ses tickets et ses PR ouvrent le Mur Kanban, en fenêtre, sans quitter l'étage ; un lien vers quelqu'un du RDC (un collègue, un agent, une fiche du rez-de-chaussée) redescend au RDC, où sa fiche s'ouvre.
 

diff --git a/CHANGELOG.md b/CHANGELOG.md
@@ -8,6 +8,7 @@ Format : [Keep a Changelog](https://keepachangelog.com/fr/1.1.0/). Versions : `0
 
 ### Ajouté
 
+- 1er étage : on voit qu'un bureau travaille. La bulle de l'agent au travail dit sa dernière action et le nombre d'actions (📖 lit, ⌨ commande, ✏ écrit, 🔎 cherche ; `last_activity` de Kronn, lu par le relevé sans IA), avec une pastille qui clignote quand l'action a moins de 30 s ; sans action depuis 5 min, elle passe au jaune. Pendant ses étapes (écrire le plan, décider après les contrôles), l'orchestrateur vient dans le bureau, qui paraissait vide ; la fiche du bureau dit « En ce moment ». Les bulles des bureaux du haut ne passent plus sous le grand tableau.
 - Créer un ticket : un modèle par type (`jira.create.templates`, par exemple `{"Story": "EW-7951", "Bug": "EW-7981"}`). Quand c'est la clé d'un ticket Jira, sa description est lue au lancement, donc une retouche du ticket modèle vaut pour les intentions suivantes ; illisible, le modèle commun `jira.create.template` prend le relais.
 - Créer un ticket : « Comment faire » et « Comment tester » sont remplis à partir de la recherche (approche, fichiers, tests voisins), comme une proposition que le framing valide, et vérifiés dans le code par la critique ; ce que le code ne dit pas est marqué « à compléter ».
 - Chaîne d'implémentation : réglage `impl.repos.<dépôt>.deps` (ex. `["application/vendor", "node_modules"]`) ; les dépendances du checkout principal sont liées dans la copie de travail de la chaîne (jamais copiées ni commitées), au départ et en reprise, et le Code et les Tests lancent les tests directement au lieu de monter des conteneurs à la main.
